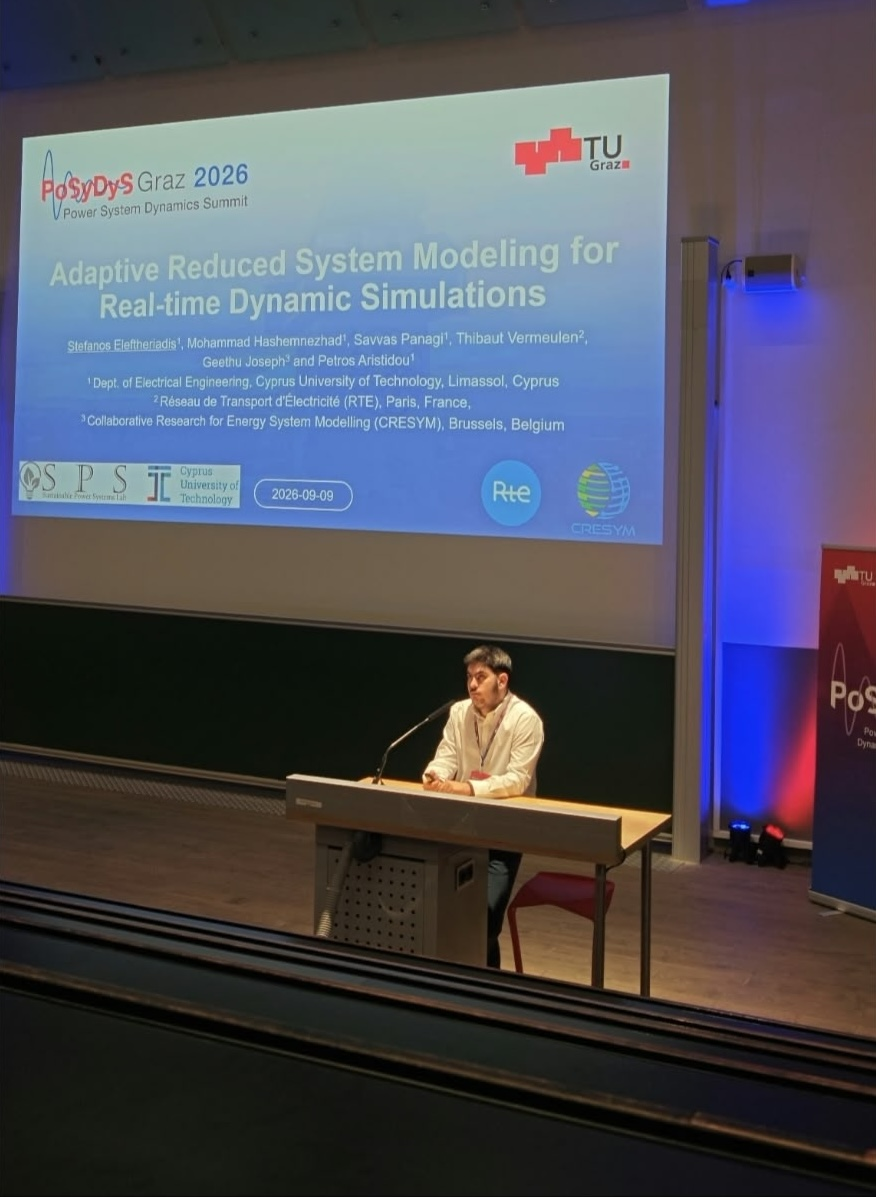
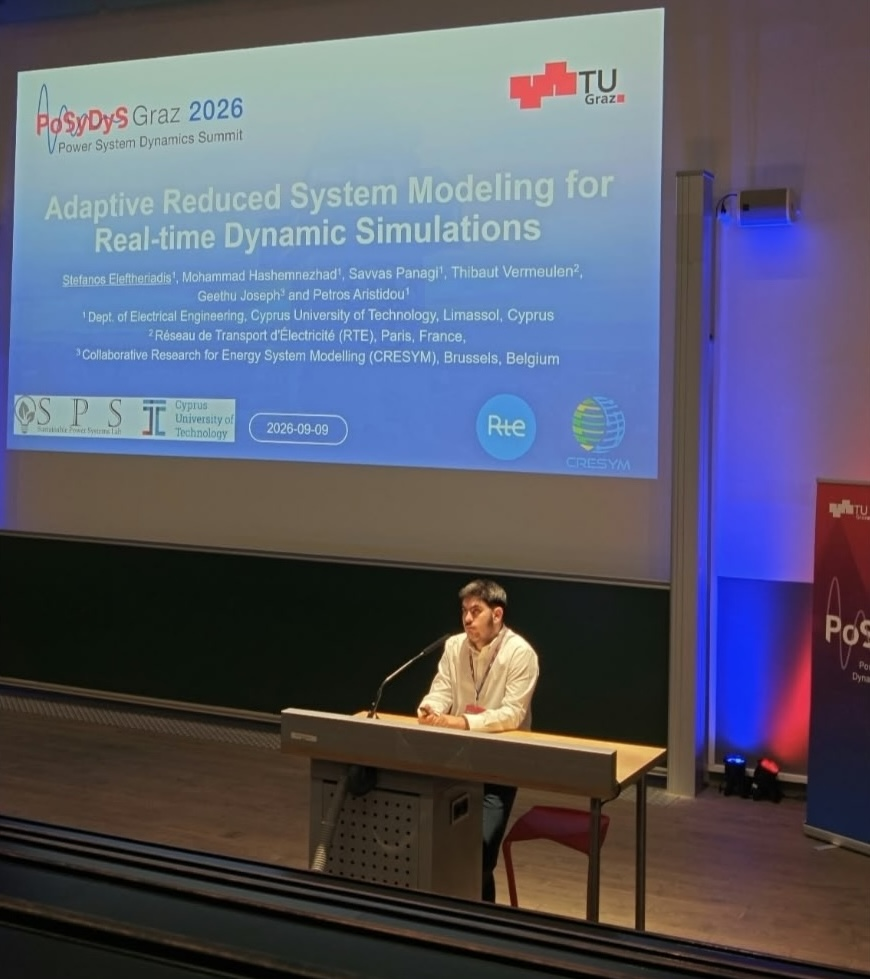
Updated PoSyDyS post

diff --git a/content/post/2026_POSYDYS/index.md b/content/post/2026_POSYDYS/index.md
@@ -1,7 +1,7 @@
 ---
 # Documentation: https://sourcethemes.com/academic/docs/managing-content/
 
-title: "SPS-Lab at the first PoSyDyS Graz 2026"
+title: "SPS-Lab at the 1st PoSyDyS Graz 2026"
 subtitle: ""
 summary: ""
 authors: ["s.-eleftheriadis"]
@@ -17,7 +17,7 @@ draft: false
 # Focal points: Smart, Center, TopLeft, Top, TopRight, Left, Right, BottomLeft, Bottom, BottomRight.
 image:
   caption: ""
-  focal_point: ""
+  focal_point: "Smart"
   preview_only: true
 
 # Projects (optional).
@@ -33,7 +33,7 @@ The Sustainable Power Systems Lab participated in the 1st [Power System Dynamics
 
 SPS-Lab was represented by PhD researchers Stefanos Eleftheriadis and Mohammad Hashemnezhad, who presented their latest research on real-time dynamic simulation and post-fault voltage recovery in active distribution networks.
 
-## Adaptive Reduced System Modeling for Real-time Dynamic Simulations — Stefanos Eleftheriadis (TRAISIM, DENSE)
+## Adaptive Reduced System Modeling for Real-time Dynamic Simulations — Stefanos Eleftheriadis
 
 Stefanos Eleftheriadis presented the paper “Adaptive Reduced System Modeling for Real-time Dynamic Simulations,” co-authored with Mohammad Hashemnezhad, Savvas Panagi, Thibaut Vermeulen, Geethu Joseph, and Petros Aristidou.
 
